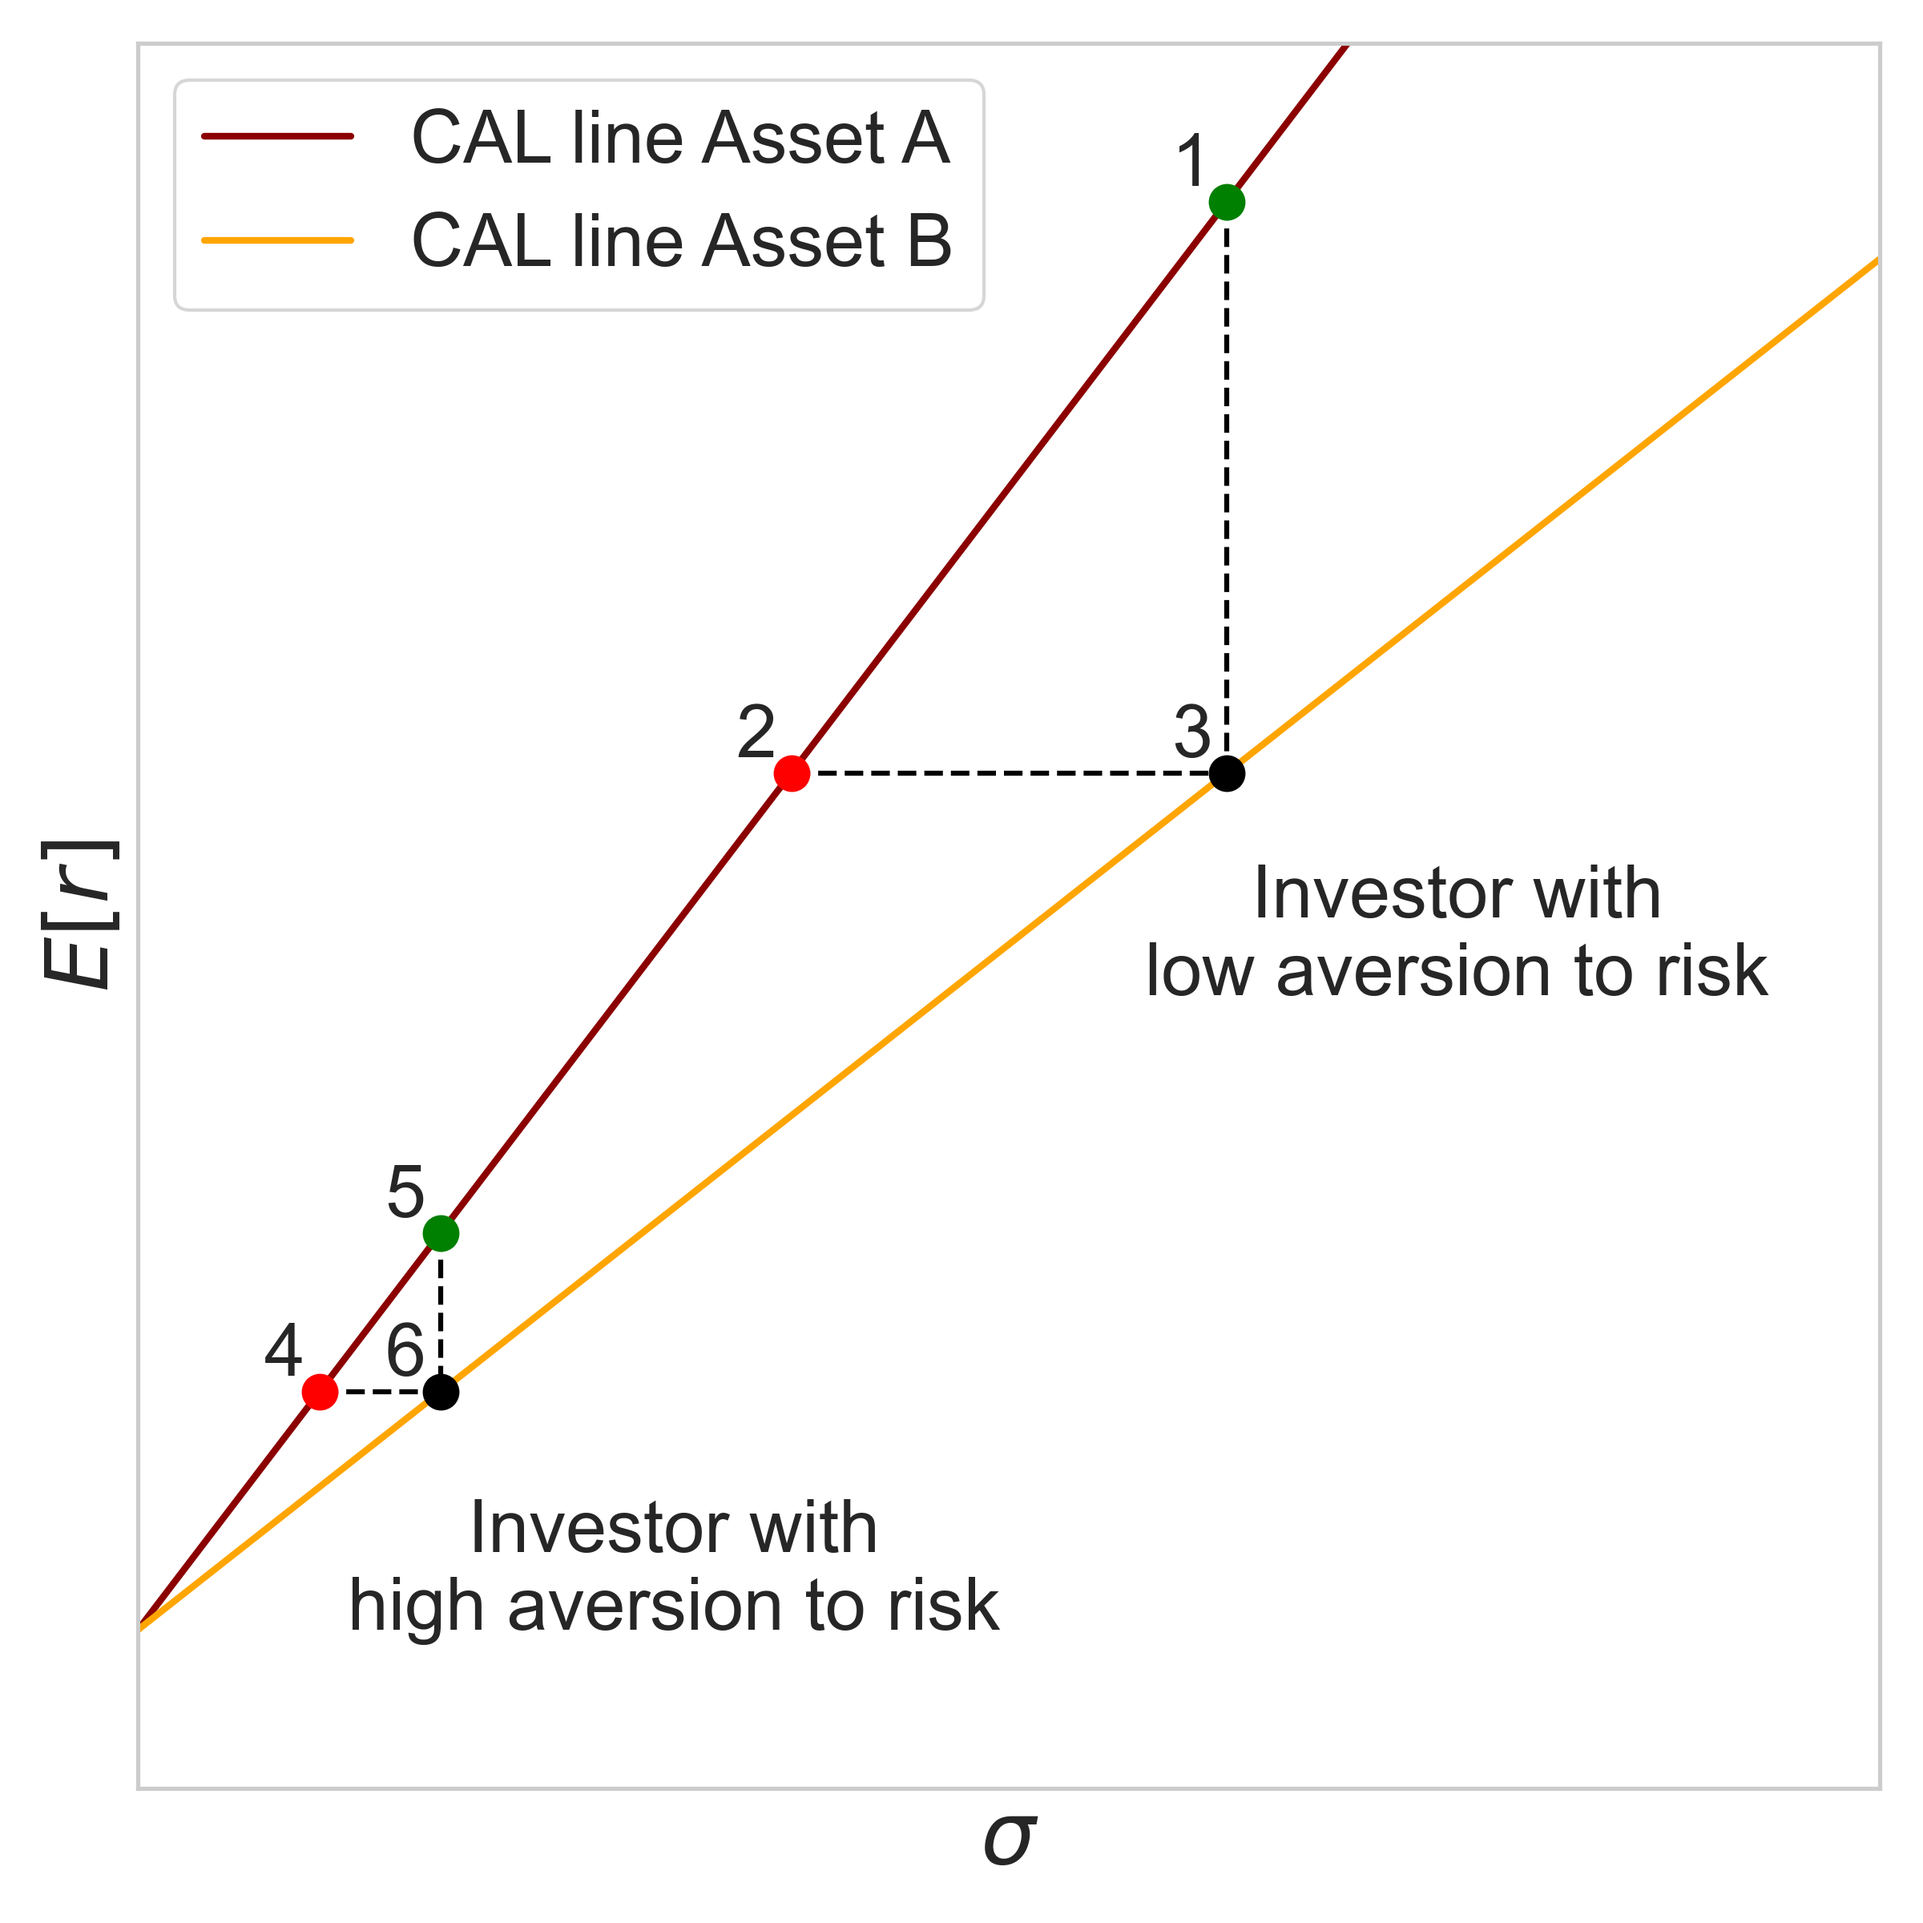
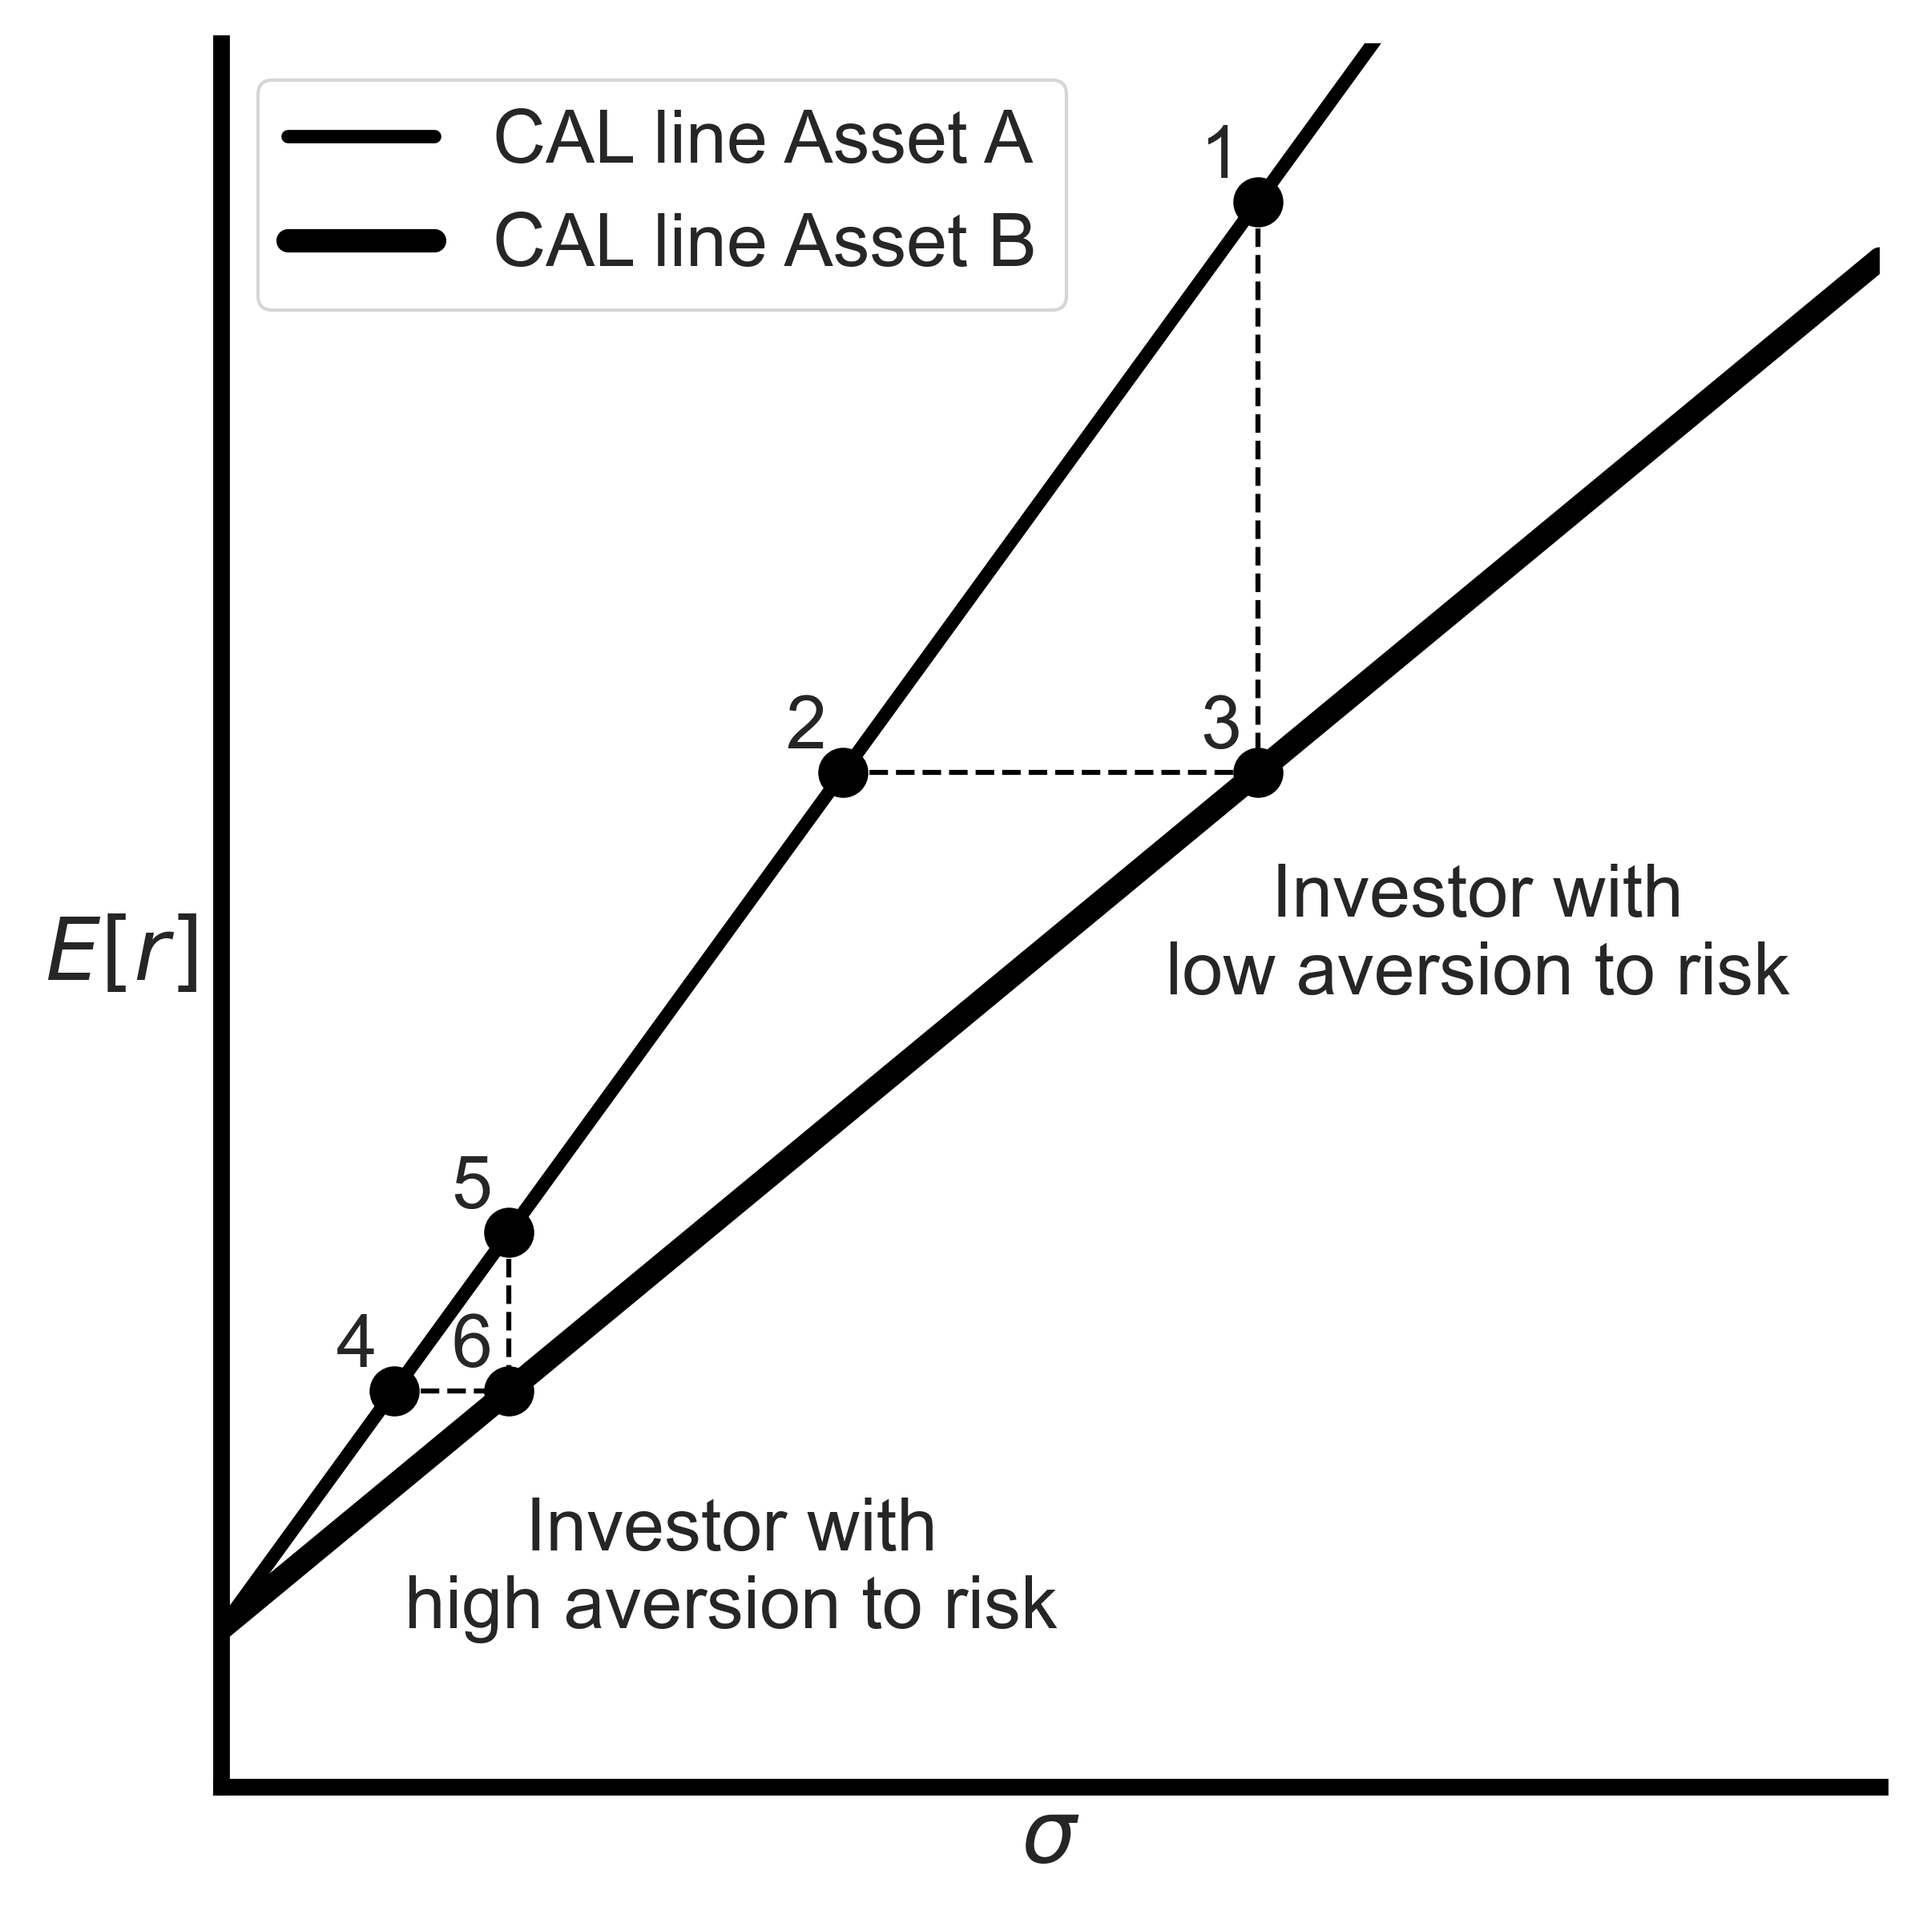
Updates

Changed region(s): [[0.0, 0.0, 1.0, 0.9688], [0.7188, 0.2188, 0.875, 0.3438], [0.875, 0.125, 1.0, 0.2188]]

diff --git a/CH6_6.3.1_moving_along_CAL.py b/CH6_6.3.1_moving_along_CAL.py
@@ -7,13 +7,13 @@ sns.set(style="whitegrid")
 plt.figure(figsize=(10, 6))
 
 # Define axes labels
-plt.xlabel("Standard Deviation", fontsize=26, labelpad=15)
-plt.ylabel("Expected Return", fontsize=26, labelpad=15)
+plt.xlabel("$\sigma$", fontsize=26, labelpad=15)
+plt.ylabel("E[r]", fontsize=26, labelpad=30, rotation=0)
 
 # Define the Capital Allocation Line (CAL)
 x_cal = np.linspace(0, 0.4, 100)
 y_cal = 0.02 + 0.44 * x_cal
-plt.plot(x_cal, y_cal, color="green", linewidth=2)
+plt.plot(x_cal, y_cal, color="black", linewidth=3)
 
 # Define points
 conservative_position = (0.081, 0.056)
@@ -21,6 +21,7 @@ fund = (0.18, 0.1)
 levered_position = (0.27, 0.14)
 
 # Plot points with labels
+labels = ["3", "1", "2"]
 for i, (x, y, label) in enumerate(
     [
         (conservative_position[0], conservative_position[1], "Conservative Position"),
@@ -29,8 +30,8 @@ for i, (x, y, label) in enumerate(
     ],
     start=1,
 ):
-    plt.scatter(x, y, color="black", s=100, zorder=5)
-    plt.text(x - 0.01, y + 0.001, str(i), fontsize=20, color="black", ha="center")
+    plt.scatter(x, y, color="black", s=200, zorder=5)
+    plt.text(x - 0.01, y + 0.001, labels[i - 1], fontsize=20, color="black", ha="center")
     plt.text(x + 0.01, y - 0.015, label, fontsize=20, color="black")
 
 # Add arrows and labels for lending and borrowing
@@ -38,9 +39,9 @@ plt.annotate(
     "",
     xy=(0.03, 0.0582),
     xytext=(0.16, 0.1154),
-    arrowprops=dict(facecolor="blue", edgecolor="blue", arrowstyle="->", linewidth=2),
+    arrowprops=dict(facecolor="black", edgecolor="black", arrowstyle="->", linewidth=3),
     fontsize=22,
-    color="blue",
+    color="black",
     ha="center",
 )
 
@@ -59,9 +60,9 @@ plt.annotate(
     "",
     xy=(0.33, 0.1902),
     xytext=(0.20, 0.133),
-    arrowprops=dict(facecolor="blue", edgecolor="blue", arrowstyle="->", linewidth=2),
+    arrowprops=dict(facecolor="black", edgecolor="black", arrowstyle="->", linewidth=3),
     fontsize=22,
-    color="blue",
+    color="black",
     ha="center",
 )
 
@@ -76,11 +77,26 @@ plt.text(
     va="center",  # Center-align text
 )
 
+plt.gca().spines["left"].set_linewidth(5)  # Thicker left axis
+plt.gca().spines["left"].set_color("black")  # Black color for bottom axis
+plt.gca().spines["bottom"].set_linewidth(5)  # Thicker bottom axis
+plt.gca().spines["bottom"].set_color("black")  # Black color for bottom axis
+
 # Set axis limits and ticks
 plt.xlim(0, 0.4)
 plt.ylim(0, 0.22)
-plt.xticks(fontsize=18)
-plt.yticks(fontsize=18)
+
+# Get current x and y ticks
+xticks = plt.xticks()[0]
+yticks = plt.yticks()[0]
+
+# Replace the 0.00 tick label with an empty string
+xtick_labels = ["" if tick == 0 else f"{tick:.2f}" for tick in xticks]
+ytick_labels = ["" if tick == 0 else f"{tick:.2f}" for tick in yticks]
+
+# Set updated tick labels
+plt.xticks(xticks, xtick_labels, fontsize=22)
+plt.yticks(yticks, ytick_labels, fontsize=22)
 
 plt.grid(False)
 sns.despine()
@@ -88,3 +104,4 @@ sns.despine()
 # Final adjustments and show plot
 plt.tight_layout()
 plt.savefig("plots/CH6_6.3.1_moving_along_CAL.png", dpi=300)  # Save with high resolution (300 dpi)
+plt.show()

diff --git a/CH6_6.2.4_two_fund_separation.py b/CH6_6.2.4_two_fund_separation.py
@@ -23,48 +23,54 @@ x_fill = [0, point_B[0], point_A[0], 0]
 y_fill = [point_B[1] - 0.05, point_B[1], point_A[1], point_B[1] - 0.05]
 x_fill = [0, 0, 0.3]
 y_fill = [point_B[1] - 0.05, 0.3 + point_B[1] - 0.05, 0.3 + point_B[1] - 0.05]
-ax.fill(x_fill, y_fill, color="gray", alpha=0.5)
+ax.fill(x_fill, y_fill, color="darkgrey", alpha=0.5)
 
 
 # Plot points
-ax.scatter(*point_B, color="black", s=100, label="B")
-ax.scatter(*point_P, color="black", s=100, label="P")
-ax.scatter(*point_A, color="black", s=100, label="A")
+ax.scatter(*point_B, color="black", s=300, label="B")
+ax.scatter(*point_P, color="black", s=300, label="P")
+ax.scatter(*point_A, color="black", s=300, label="A")
+
+ax.spines["bottom"].set_linewidth(5)  # Thicker x-axis
+ax.spines["left"].set_linewidth(5)  # Thicker y-axis
 
 # Add dashed vertical lines
 ax.vlines(point_B[0], 0, point_B[1], linestyles="dashed", colors="black")
 ax.vlines(point_A[0], 0, point_A[1], linestyles="dashed", colors="black")
 
 # Annotate points
-ax.text(point_B[0] + 0.01, point_B[1] - 0.01, "B", fontsize=22, va="center", ha="left")
-ax.text(
-    point_P[0] + 0.01,
-    point_P[1] - 0.03,
-    "Asset with\nmaximum\nSharpe Ratio",
-    fontsize=22,
-    va="center",
-    ha="left",
-)
-ax.text(point_A[0] + 0.01, point_A[1] - 0.01, "A", fontsize=22, va="center", ha="left")
+ax.text(point_B[0] + 0.01, point_B[1] - 0.01, "B", fontsize=28, va="center", ha="left")
+# ax.text(
+#    point_P[0] + 0.03,
+#    point_P[1] - 0.05,
+#    "Asset with\nmaximum\nSharpe Ratio",
+#    fontsize=22,
+#    va="center",
+#    ha="left",
+# )
+ax.text(point_A[0] + 0.01, point_A[1] - 0.01, "A", fontsize=28, va="center", ha="left")
+
+ax.text(point_P[0] + 0.01, point_P[1] - 0.01, "P", fontsize=28, va="center", ha="left")
 
 # Annotate the region
 ax.text(
     0.03,
     0.22,
     "Impossible to\ncreate portfolios in\nthis region.",
-    fontsize=22,
+    fontsize=28,
     va="center",
     ha="left",
-    bbox=dict(facecolor="white", edgecolor="black"),
+    fontweight="bold",
+    # bbox=dict(facecolor="white", edgecolor="black"),
 )
 
 # Set limits, labels, and ticks
 ax.set_xlim(0, 0.3)
 ax.set_ylim(0, 0.3)
-ax.set_xlabel("$\\sigma$", fontsize=26)
-ax.set_ylabel("E[r]", fontsize=26)
+ax.set_xlabel("$\\sigma$", fontsize=31)
+ax.set_ylabel("E[r]", fontsize=31, rotation=0, labelpad=35)
 ax.set_xticks([point_B[0], point_A[0]])
-ax.set_xticklabels(["$x_B$", "$x_A$"], fontsize=22)
+ax.set_xticklabels(["$x_B$", "$x_A$"], fontsize=28)
 ax.set_yticks([])
 
 # Remove grid lines and spines
@@ -76,3 +82,4 @@ plt.tight_layout()
 plt.savefig(
     "plots/CH6_6.2.4_two_fund_separation.png", dpi=300
 )  # Save with high resolution (300 dpi)
+plt.show()

diff --git a/CH6_6.2.5_Mosaic_Vanguard_CAL.py b/CH6_6.2.5_Mosaic_Vanguard_CAL.py
@@ -7,33 +7,37 @@ sns.set(style="whitegrid")
 plt.figure(figsize=(10, 8))
 
 # Define axes labels and styles
-plt.xlabel("Portfolio Standard Deviation", fontsize=26, labelpad=15)
-plt.ylabel("Portfolio Expected Return", fontsize=26, labelpad=15)
+plt.xlabel("$\sigma$", fontsize=28, labelpad=15)
+plt.ylabel("E[r]", fontsize=28, labelpad=30, rotation=0)
 
 # Define Vanguard CAL (slope=0.3125, intercept=0.07)
 intercept = 0.07
 vanguard_sharpe = 0.3125
 x_vanguard = np.linspace(0, 0.6, 100)
 y_vanguard = intercept + vanguard_sharpe * x_vanguard
-plt.plot(x_vanguard, y_vanguard, color="blue", label="Vanguard CAL", linewidth=2)
+plt.plot(x_vanguard, y_vanguard, color="black", label="Vanguard CAL", linewidth=2)
 
 # Define Mosaic CAL (slope=0.267, intercept=0.07)
 mosaic_sharpe = 0.267
 x_mosaic = np.linspace(0, 0.6, 100)
 y_mosaic = intercept + mosaic_sharpe * x_mosaic
-plt.plot(x_mosaic, y_mosaic, color="red", label="Mosaic CAL", linewidth=2)
+plt.plot(x_mosaic, y_mosaic, color="black", label="Mosaic CAL", linewidth=5)
 
 # Define the Client's Portfolio point
 client_portfolio = (0.2625, 0.14)
-plt.scatter(*client_portfolio, color="cyan", s=100, edgecolor="black", zorder=5)
+plt.scatter(*client_portfolio, color="black", s=200, edgecolor="black", zorder=5)
 plt.text(
-    client_portfolio[0] + 0.1,
-    client_portfolio[1] - 0.012,
-    "Client's Portfolio",
-    fontsize=22,
+    client_portfolio[0] + 0.15,
+    client_portfolio[1] - 0.022,
+    "Client's Original Portfolio",
+    fontsize=26,
     ha="center",
 )
 
+plt.gca().spines["left"].set_linewidth(4)  # Thicker left axis
+plt.gca().spines["left"].set_color("black")  # Black color for bottom axis
+plt.gca().spines["bottom"].set_linewidth(4)  # Thicker bottom axis
+plt.gca().spines["bottom"].set_color("black")  # Black color for bottom axis
 # Add dashed lines from Client's Portfolio
 # Horizontal dashed line
 plt.plot(
@@ -55,8 +59,11 @@ plt.plot(
 # Set axis limits and ticks
 plt.xlim(0, 0.6)
 plt.ylim(0, 0.25)
-plt.xticks(fontsize=18)
-plt.yticks(fontsize=18)
+plt.xticks(fontsize=22)
+plt.yticks(fontsize=22)
+
+# Adjust aspect ratio to make the angle between the lines larger
+plt.gca().set_aspect(2, adjustable="box")  # Increase the aspect ratio to stretch the y-axis
 
 plt.grid(False)
 sns.despine()
@@ -67,3 +74,4 @@ plt.legend(fontsize=22, loc="upper left")
 plt.savefig(
     "plots/CH6_6.2.5_Mosaic_Vanguard_CAL.png", dpi=300
 )  # Save with high resolution (300 dpi)
+plt.show()

diff --git a/CH6_6.2.3_two_CAL_lines.py b/CH6_6.2.3_two_CAL_lines.py
@@ -25,8 +25,8 @@ orange_slope = (points[3][1] - intercept) / points[3][0]
 red_line = [intercept + red_slope * i for i in x]
 orange_line = [intercept + orange_slope * i for i in x]
 
-ax.plot(x, red_line, color="darkred", linewidth=2, label="CAL line Asset A")
-ax.plot(x, orange_line, color="orange", linewidth=2, label="CAL line Asset B")
+ax.plot(x, red_line, color="black", linewidth=4, label="CAL line Asset A")
+ax.plot(x, orange_line, color="black", linewidth=7, label="CAL line Asset B")
 
 # Add dashed lines between specified points
 dashed_pairs = [(4, 6), (5, 6), (1, 3), (2, 3)]
@@ -37,17 +37,16 @@ for p1, p2 in dashed_pairs:
 
 # Add points with labels
 for idx, (x, y) in points.items():
-    color = "green" if idx in {1, 5} else "red" if idx in {2, 4} else "black"
-    ax.plot(x, y, "o", color=color, markersize=10)
-    ax.text(x - 0.008, y + 0.002, str(idx), fontsize=22, ha="center")
+    ax.plot(x, y, "o", color="black", markersize=14)
+    ax.text(x - 0.009, y + 0.003, str(idx), fontsize=22, ha="center")
 
 # Add investor labels
 ax.text(0.303, 0.10, "Investor with\nlow aversion to risk", fontsize=22, ha="center")
 ax.text(0.123, 0.02, "Investor with\nhigh aversion to risk", fontsize=22, ha="center")
 
 # Set axis labels and ticks
-ax.set_xlabel(r"$\sigma$", fontsize=26)
-ax.set_ylabel(r"$E[r]$", fontsize=26)
+ax.set_xlabel(r"$\sigma$", fontsize=26, rotation=0)
+ax.set_ylabel(r"$E[r]$", fontsize=26, rotation=0, labelpad=30, va="top")
 ax.set_xlim(0, 0.4)
 ax.set_ylim(0, 0.22)
 ax.tick_params(axis="both", labelsize=22)
@@ -57,7 +56,20 @@ ax.legend(fontsize=22, loc="upper left")
 ax.set_xticks([])
 ax.set_yticks([])
 
+# Remove the top and right spines (no box around the plot)
+ax.spines["top"].set_visible(False)
+ax.spines["right"].set_visible(False)
+
+# Increase thickness of the x and y axes
+ax.spines["left"].set_linewidth(5)
+ax.spines["bottom"].set_linewidth(5)
+
+ax.spines["left"].set_color("black")
+ax.spines["bottom"].set_color("black")
+
+
 # Show the plot
 plt.grid(False)
 plt.tight_layout()
 plt.savefig("plots/CH6_6.2.3_two_CAL_lines.png", dpi=300)  # Save with high resolution (300 dpi)
+plt.show()

diff --git a/CH6_6.2.2_capital_allocation_line.py b/CH6_6.2.2_capital_allocation_line.py
@@ -65,7 +65,6 @@ ax.annotate(
     xytext=(x_vals[1] - 0.03, y_vals[1] + 0.020),  # Near the "d" in "Fund"
     arrowprops=dict(facecolor="black", edgecolor="black", arrowstyle="->", lw=2),
 )
-
 # Save the plot
 plt.grid(False)
 plt.tight_layout()
